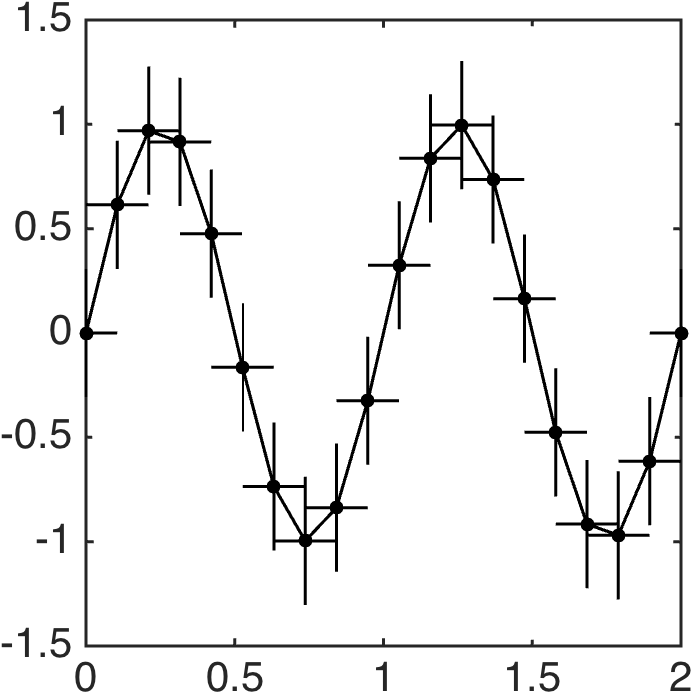
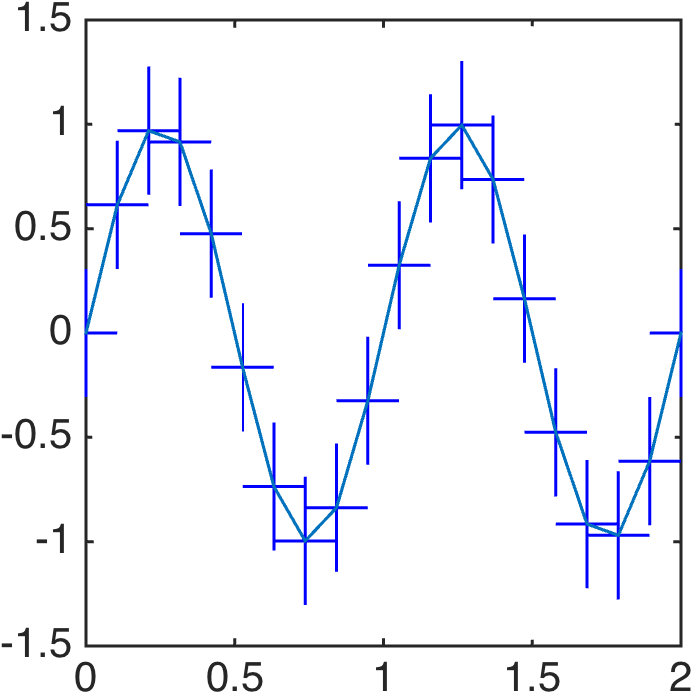
changed default plot opts to blue

Changed region(s): [[0.3035, 0.1515, 1.0, 0.8788], [0.1214, 0.0909, 0.3338, 0.5758]]

diff --git a/errorbarxy.m b/errorbarxy.m
@@ -39,7 +39,7 @@ function [hdx,hdy] = errorbarxy(varargin)
 narginchk(4,inf);
 
 % set default plot options
-defaultLineSpec = {'-k','LineWidth',1};
+defaultLineSpec = {'-b','LineWidth',1};
 
 % check if first input is axes handle
 handleCheck = ishandle(varargin{1});
